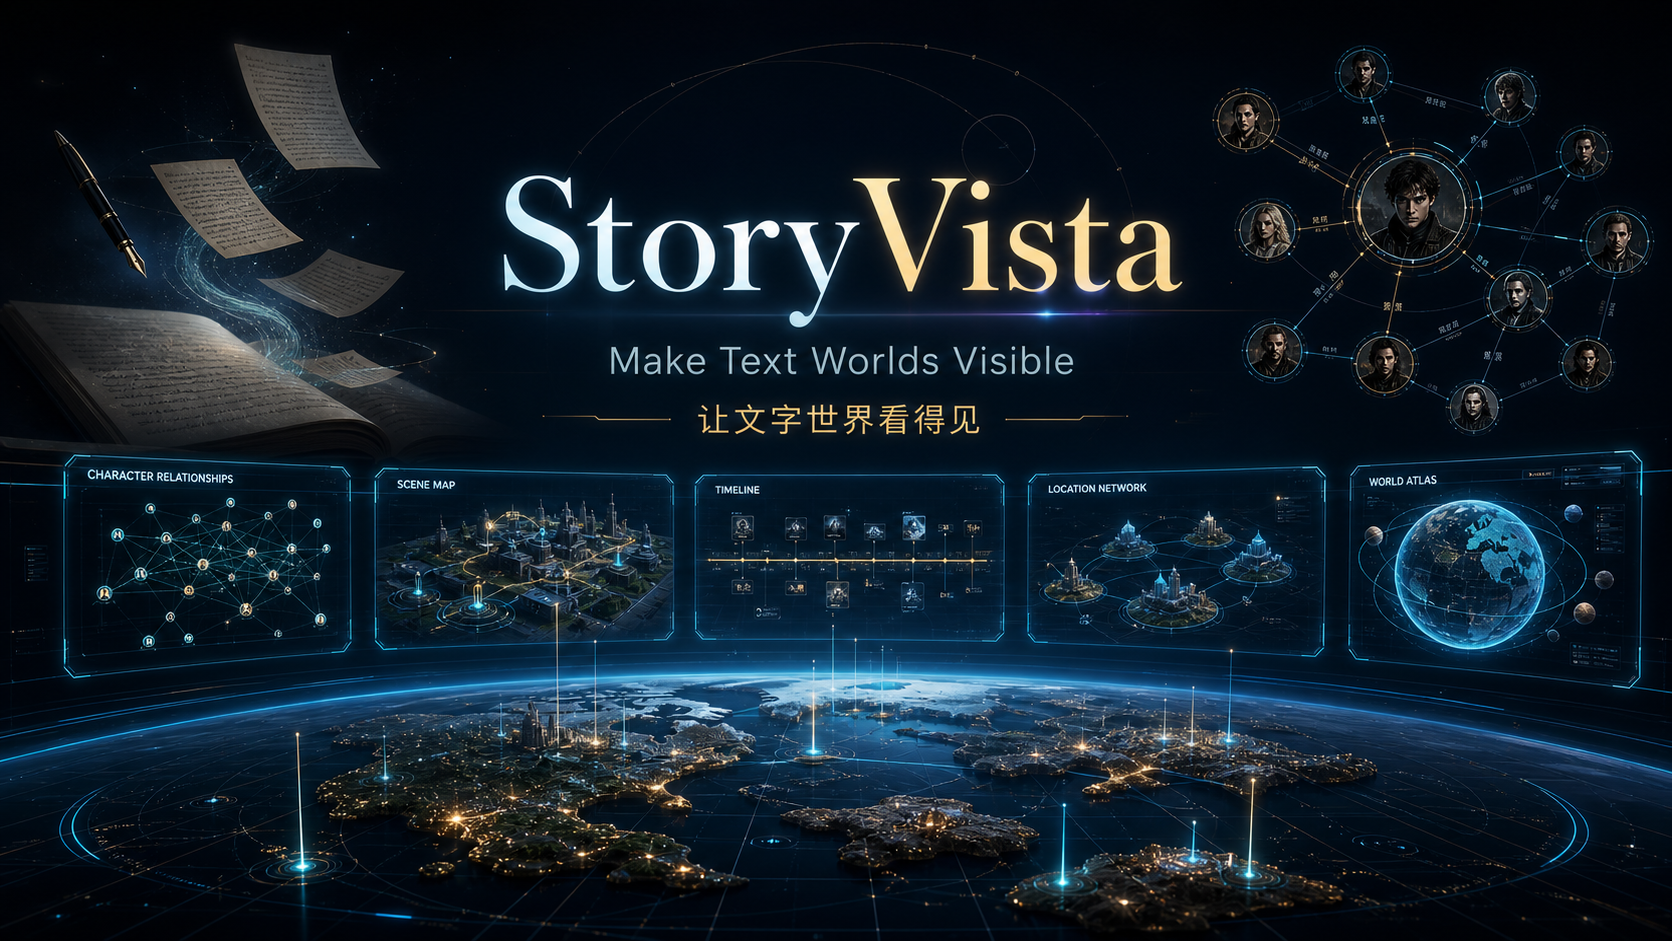
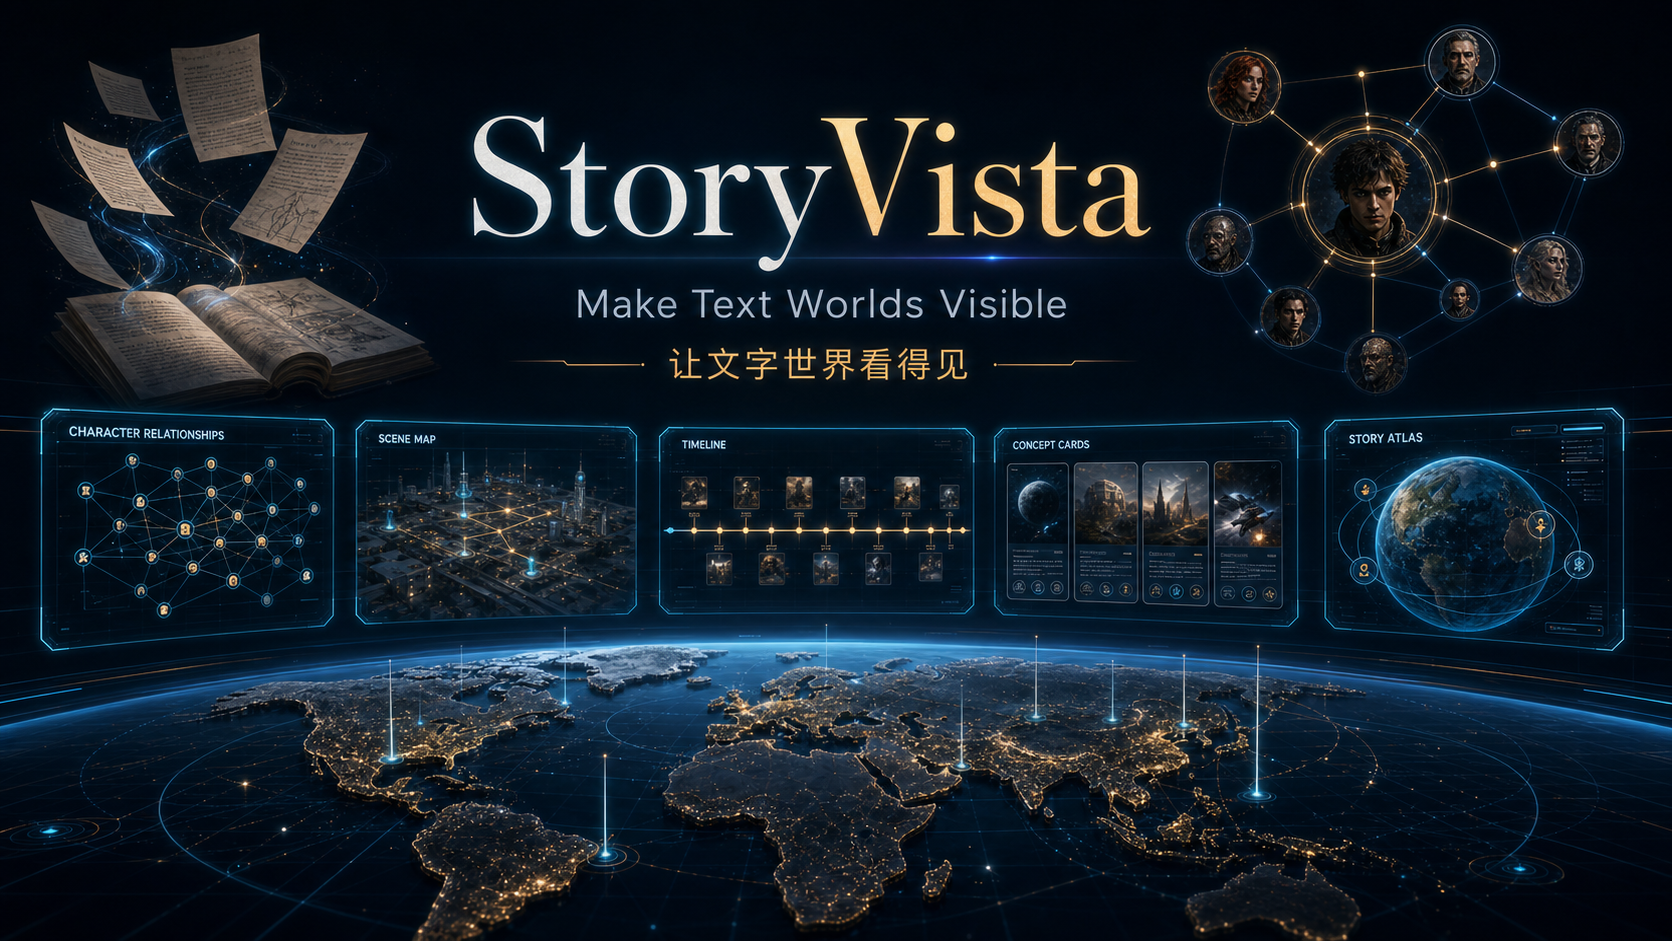
Polish GitHub README with visual pain points

diff --git a/README.zh-CN.md b/README.zh-CN.md
@@ -2,25 +2,54 @@
 
 ![StoryVista 横幅](assets/github-hero.png)
 
-**StoryVista｜文景** 是一套 Codex skill，用来把小说、剧本、影视剧本、长篇文字、世界观设定和复杂故事笔记，转换成可浏览、可点击、可分享的交互式视觉档案。
+**StoryVista｜文景** 帮助人们让文字世界看得见。
 
-它不是只服务某一本小说的工具，而是面向所有想把“文字内容具象化”的人：读者、作者、编剧、学生、研究者、世界观创作者和内容团队。
+把小说、剧本、长篇文字和世界观设定，转换成人物关系、场景地图、时间线、概念卡片与 3D 世界图谱。
 
 英文标语：**Make Text Worlds Visible**  
 中文标语：**让文字世界看得见**
 
 > 草稿状态：这个仓库目前只用于内部确认。未经确认前，不公开发布、不创建正式 release、不作为公开项目宣传。
 
-## 为什么需要 StoryVista
+## 读一个故事，不应该像丢了一张地图
 
-很多小说、剧本和长篇文字的问题不是“读不懂一句话”，而是“装不下整个世界”：
+长篇小说和剧本常常把结构藏在人名、地点、场景和伏笔里。StoryVista 把这些隐藏结构变成可以看的图谱。
 
-- 人物太多，关系变化复杂。
-- 场景跳转频繁，地点之间的关系不清楚。
-- 时间线、伏笔、重要物件和设定分散在不同章节。
-- 剧本里一句台词背后可能藏着完整的人物关系和世界结构。
+![阅读痛点总览](assets/pain-points-overview.png)
 
-StoryVista 的目标，就是把这些隐藏在文字里的结构做成可以看的东西：人物关系、场景关系、时间线、概念卡片、地点网络和 3D 世界图。
+## 四种常见阅读痛点
+
+|  |  |
+| --- | --- |
+| ![人物名字混乱](assets/pain-name-overload.png)<br><br>**人物名字混乱**<br>人物、别名、译名、头衔和昵称太多，读到后面很容易分不清谁是谁。<br><br>**Name Overload**<br>Too many characters, aliases, translations, titles, and nicknames make it hard to remember who is who. | ![人物关系混乱](assets/pain-relationship-confusion.png)<br><br>**人物关系混乱**<br>同盟、敌对、亲属、导师、竞争者和隐藏身份不断变化，关系线越读越乱。<br><br>**Relationship Confusion**<br>Allies, enemies, families, mentors, rivals, and hidden identities shift across the story. |
+| ![地点描述混乱](assets/pain-place-disorientation.png)<br><br>**地点描述混乱**<br>故事在城市、房间、星球、王国或时代之间跳转，读者还没形成地图，场景已经切走。<br><br>**Place Disorientation**<br>Scenes move between cities, rooms, planets, kingdoms, or timelines before the reader forms a mental map. | ![空间关系混乱](assets/pain-spatial-uncertainty.png)<br><br>**空间关系混乱**<br>路线、距离、世界、飞船、战场或幻想地理只存在于文字里，很难形成直观空间感。<br><br>**Spatial Uncertainty**<br>Routes, distances, worlds, ships, battlefields, or fantasy realms are described in text but hard to visualize. |
+
+## 从文字到可探索的故事图谱
+
+StoryVista 将叙事材料变成可浏览、可点击、可回看的结构，帮助读者和创作者快速重新进入故事。
+
+- **Character Graphs｜人物关系图**  
+  梳理人物姓名、别名、身份、派系与不断变化的关系。
+
+- **Scene & Location Maps｜场景与地点地图**  
+  连接房间、城市、星球、王国、路线和反复出现的地点。
+
+- **Timelines & Concepts｜时间线与概念卡片**  
+  跟踪剧情事件、科技、能力、母题、物件和伏笔。
+
+- **3D World Maps｜3D 世界图谱**  
+  当距离、地理、移动和空间关系重要时，建立可交互的 3D 视图。
+
+![StoryVista 工作流](assets/storyvista-workflow.png)
+
+## 为所有需要理解故事结构的人而做
+
+- 想理清复杂故事的读者
+- 想检查故事结构的作者
+- 管理人物和场景的编剧
+- 分析文学作品的学生和老师
+- 管理地点、派系和设定的世界观创作者
+- 将叙事材料转成知识图谱的研究者
 
 ## 它能帮助你做什么
 
@@ -33,15 +62,6 @@ StoryVista 的目标，就是把这些隐藏在文字里的结构做成可以看
 - 制作适合手机浏览的交互档案页面
 - 将 Obsidian 本地页面同步为公开可分享的静态网页
 - 为有空间关系的故事制作实时 3D 地图
-
-## 适合谁使用
-
-- 想理清复杂人物关系的小说读者
-- 想检查故事结构是否清晰的作者
-- 管理人物、场景和地点的编剧或制片团队
-- 分析文学作品的学生和老师
-- 管理派系、地点、路线和设定的世界观创作者
-- 想把长篇叙事资料变成可导航知识库的研究者
 
 ## 本地安装
 
@@ -65,7 +85,13 @@ cp -R skill "$HOME/.codex/skills/story-vista"
 ├── README.md
 ├── README.zh-CN.md
 ├── assets/
-│   └── github-hero.png
+│   ├── github-hero.png
+│   ├── pain-points-overview.png
+│   ├── pain-name-overload.png
+│   ├── pain-relationship-confusion.png
+│   ├── pain-place-disorientation.png
+│   ├── pain-spatial-uncertainty.png
+│   └── storyvista-workflow.png
 └── skill/
     ├── SKILL.md
     ├── agents/
@@ -96,14 +122,14 @@ cp -R skill "$HOME/.codex/skills/story-vista"
 
 ## 内部确认清单
 
-- [ ] StoryVista / 文景 这个名字清楚、好记、适合传播。
-- [ ] 英文 README 面向通用人群，不绑定某一本小说。
+- [ ] 痛点区对不同文化背景的用户都清楚。
+- [ ] 英文 README 首屏能说明这个 skill 的用途。
 - [ ] 中文 README 面向读者、作者、编剧和世界观创作者。
-- [ ] GitHub 横幅配图符合项目气质。
+- [ ] 新图片适合 GitHub 详情页。
 - [ ] `skill/SKILL.md` 的触发条件清楚。
 - [ ] `skill/references/implementation-notes.md` 记录的是可复用流程。
 - [ ] skill 能通过 `quick_validate.py` 校验。
-- [ ] 未经确认前，仓库保持私有或草稿状态。
+- [ ] 未经确认前，不推送 GitHub。
 
 ## 许可证
 

diff --git a/README.md b/README.md
@@ -4,24 +4,52 @@
 
 **StoryVista** helps people make text worlds visible.
 
-It is a Codex skill for turning novels, scripts, screenplays, long-form prose, roleplaying worlds, and dense story notes into interactive visual atlases. It is designed for readers, writers, screenwriters, students, researchers, and creative teams who need to understand complicated characters, scenes, timelines, concepts, and world relationships at a glance.
+Turn novels, scripts, screenplays, and long-form text into interactive visual atlases for characters, scenes, timelines, concepts, and worlds.
 
 Chinese name: **文景**  
 Tagline: **Make Text Worlds Visible** / **让文字世界看得见**
 
 > Draft status: this repository is prepared for internal review. Do not publish, release, or make public until the owner confirms the content and presentation.
 
-## Why StoryVista Exists
+## Reading a story should not feel like losing a map
 
-Long stories are hard to hold in your head. Characters change sides, scenes jump across places, important objects appear before their meaning is clear, and a screenplay can hide a large world behind short lines of dialogue.
+Long stories often hide their structure inside names, places, scenes, and scattered clues. StoryVista makes that hidden structure visible.
 
-StoryVista turns that text into an explorable interface:
+![Reading pain points overview](assets/pain-points-overview.png)
 
-- Who is connected to whom?
-- Where does each scene happen?
-- What events happen in what order?
-- Which places, objects, powers, technologies, symbols, or factions matter?
-- How can a reader or creative team quickly revisit the structure of the work?
+## Visual Pain Points
+
+|  |  |
+| --- | --- |
+| ![Name Overload](assets/pain-name-overload.png)<br><br>**Name Overload**<br>Too many characters, aliases, translations, titles, and nicknames make it hard to remember who is who.<br><br>**人物名字混乱**<br>人物、别名、译名、头衔和昵称太多，读到后面很容易分不清谁是谁。 | ![Relationship Confusion](assets/pain-relationship-confusion.png)<br><br>**Relationship Confusion**<br>Allies, enemies, families, mentors, rivals, and hidden identities shift across the story.<br><br>**人物关系混乱**<br>同盟、敌对、亲属、导师、竞争者和隐藏身份不断变化，关系线越读越乱。 |
+| ![Place Disorientation](assets/pain-place-disorientation.png)<br><br>**Place Disorientation**<br>Scenes move between cities, rooms, planets, kingdoms, or timelines before the reader forms a mental map.<br><br>**地点描述混乱**<br>故事在城市、房间、星球、王国或时代之间跳转，读者还没形成地图，场景已经切走。 | ![Spatial Uncertainty](assets/pain-spatial-uncertainty.png)<br><br>**Spatial Uncertainty**<br>Routes, distances, worlds, ships, battlefields, or fantasy realms are described in text but hard to visualize.<br><br>**空间关系混乱**<br>路线、距离、世界、飞船、战场或幻想地理只存在于文字里，很难形成直观空间感。 |
+
+## From Text to Visual Atlas
+
+StoryVista turns narrative material into an explorable structure that readers and creative teams can revisit at a glance.
+
+- **Character Graphs｜人物关系图**  
+  Map names, aliases, roles, factions, and changing relationships.
+
+- **Scene & Location Maps｜场景与地点地图**  
+  Connect rooms, cities, planets, kingdoms, routes, and recurring places.
+
+- **Timelines & Concepts｜时间线与概念卡片**  
+  Track plot events, technologies, powers, motifs, objects, and clues.
+
+- **3D World Maps｜3D 世界图谱**  
+  Build interactive spatial views when distance, geography, or movement matters.
+
+![StoryVista workflow](assets/storyvista-workflow.png)
+
+## Built for people who think through stories
+
+- Readers who want to remember complex stories
+- Writers who want to test story structure
+- Screenwriters who track scenes and characters
+- Students and teachers analyzing literature
+- Worldbuilders managing places, factions, and lore
+- Researchers turning narrative material into navigable knowledge
 
 ## What It Helps Build
 
@@ -33,15 +61,6 @@ StoryVista turns that text into an explorable interface:
 - Mobile-friendly archive pages for readers and collaborators
 - Obsidian-ready local pages plus optional public static sharing
 - Real-time 3D maps for spatial stories, journeys, planets, cities, rooms, or worlds
-
-## Who It Is For
-
-- Novel readers who want to understand complex relationships
-- Writers who want to see whether a story structure is coherent
-- Screenwriters and producers tracking characters, scenes, and locations
-- Students and teachers analyzing narrative works
-- Worldbuilders managing factions, places, routes, and lore
-- Researchers turning long narrative material into navigable knowledge
 
 ## Install Locally
 
@@ -65,7 +84,13 @@ Use $story-vista to turn this novel, script, or long-form text into an interacti
 ├── README.md
 ├── README.zh-CN.md
 ├── assets/
-│   └── github-hero.png
+│   ├── github-hero.png
+│   ├── pain-points-overview.png
+│   ├── pain-name-overload.png
+│   ├── pain-relationship-confusion.png
+│   ├── pain-place-disorientation.png
+│   ├── pain-spatial-uncertainty.png
+│   └── storyvista-workflow.png
 └── skill/
     ├── SKILL.md
     ├── agents/
@@ -96,14 +121,14 @@ Use $story-vista to turn this novel, script, or long-form text into an interacti
 
 ## Internal Review Checklist
 
-- [ ] The name StoryVista / 文景 feels clear and memorable.
-- [ ] The English README speaks to a broad audience, not one specific novel.
+- [ ] The visual pain-point section is clear across cultures.
+- [ ] The English README explains the skill within the first screen.
 - [ ] The Chinese README speaks to readers, writers, screenwriters, and worldbuilders.
-- [ ] The hero image fits the GitHub details page.
+- [ ] The new images fit the GitHub details page.
 - [ ] `skill/SKILL.md` describes trigger conditions clearly.
 - [ ] `skill/references/implementation-notes.md` captures reusable workflow details.
 - [ ] The skill validates with `quick_validate.py`.
-- [ ] The repository remains private or draft until the owner approves publication.
+- [ ] The repository remains unpushed until the owner approves publication.
 
 ## License
 